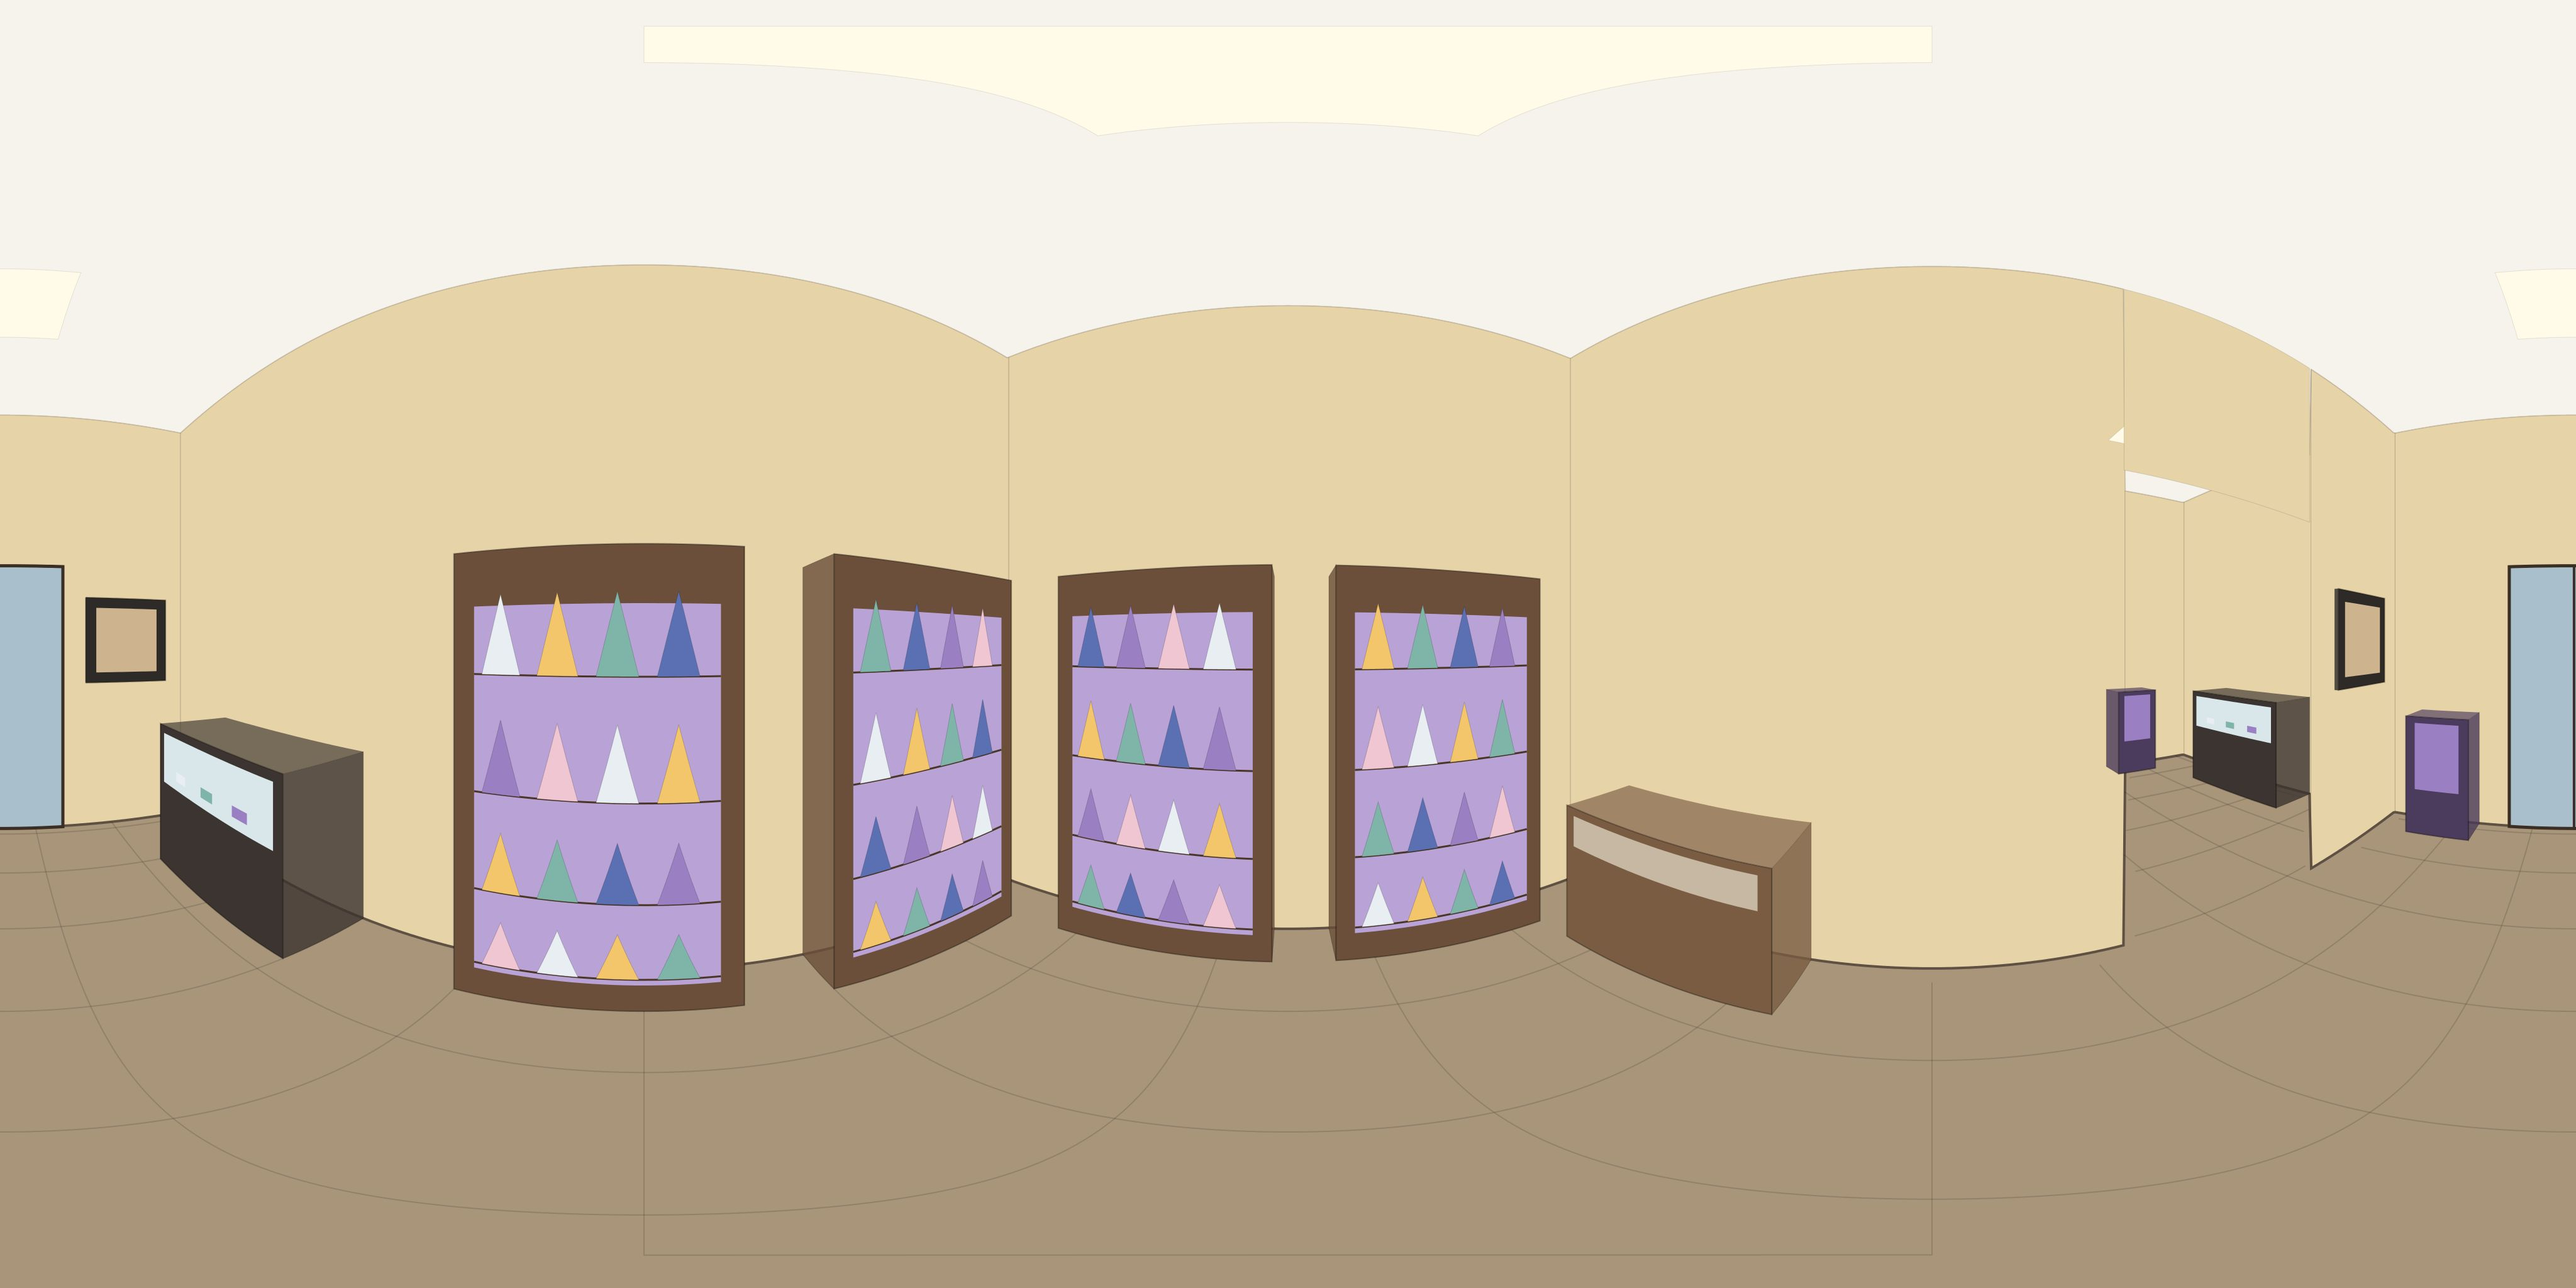
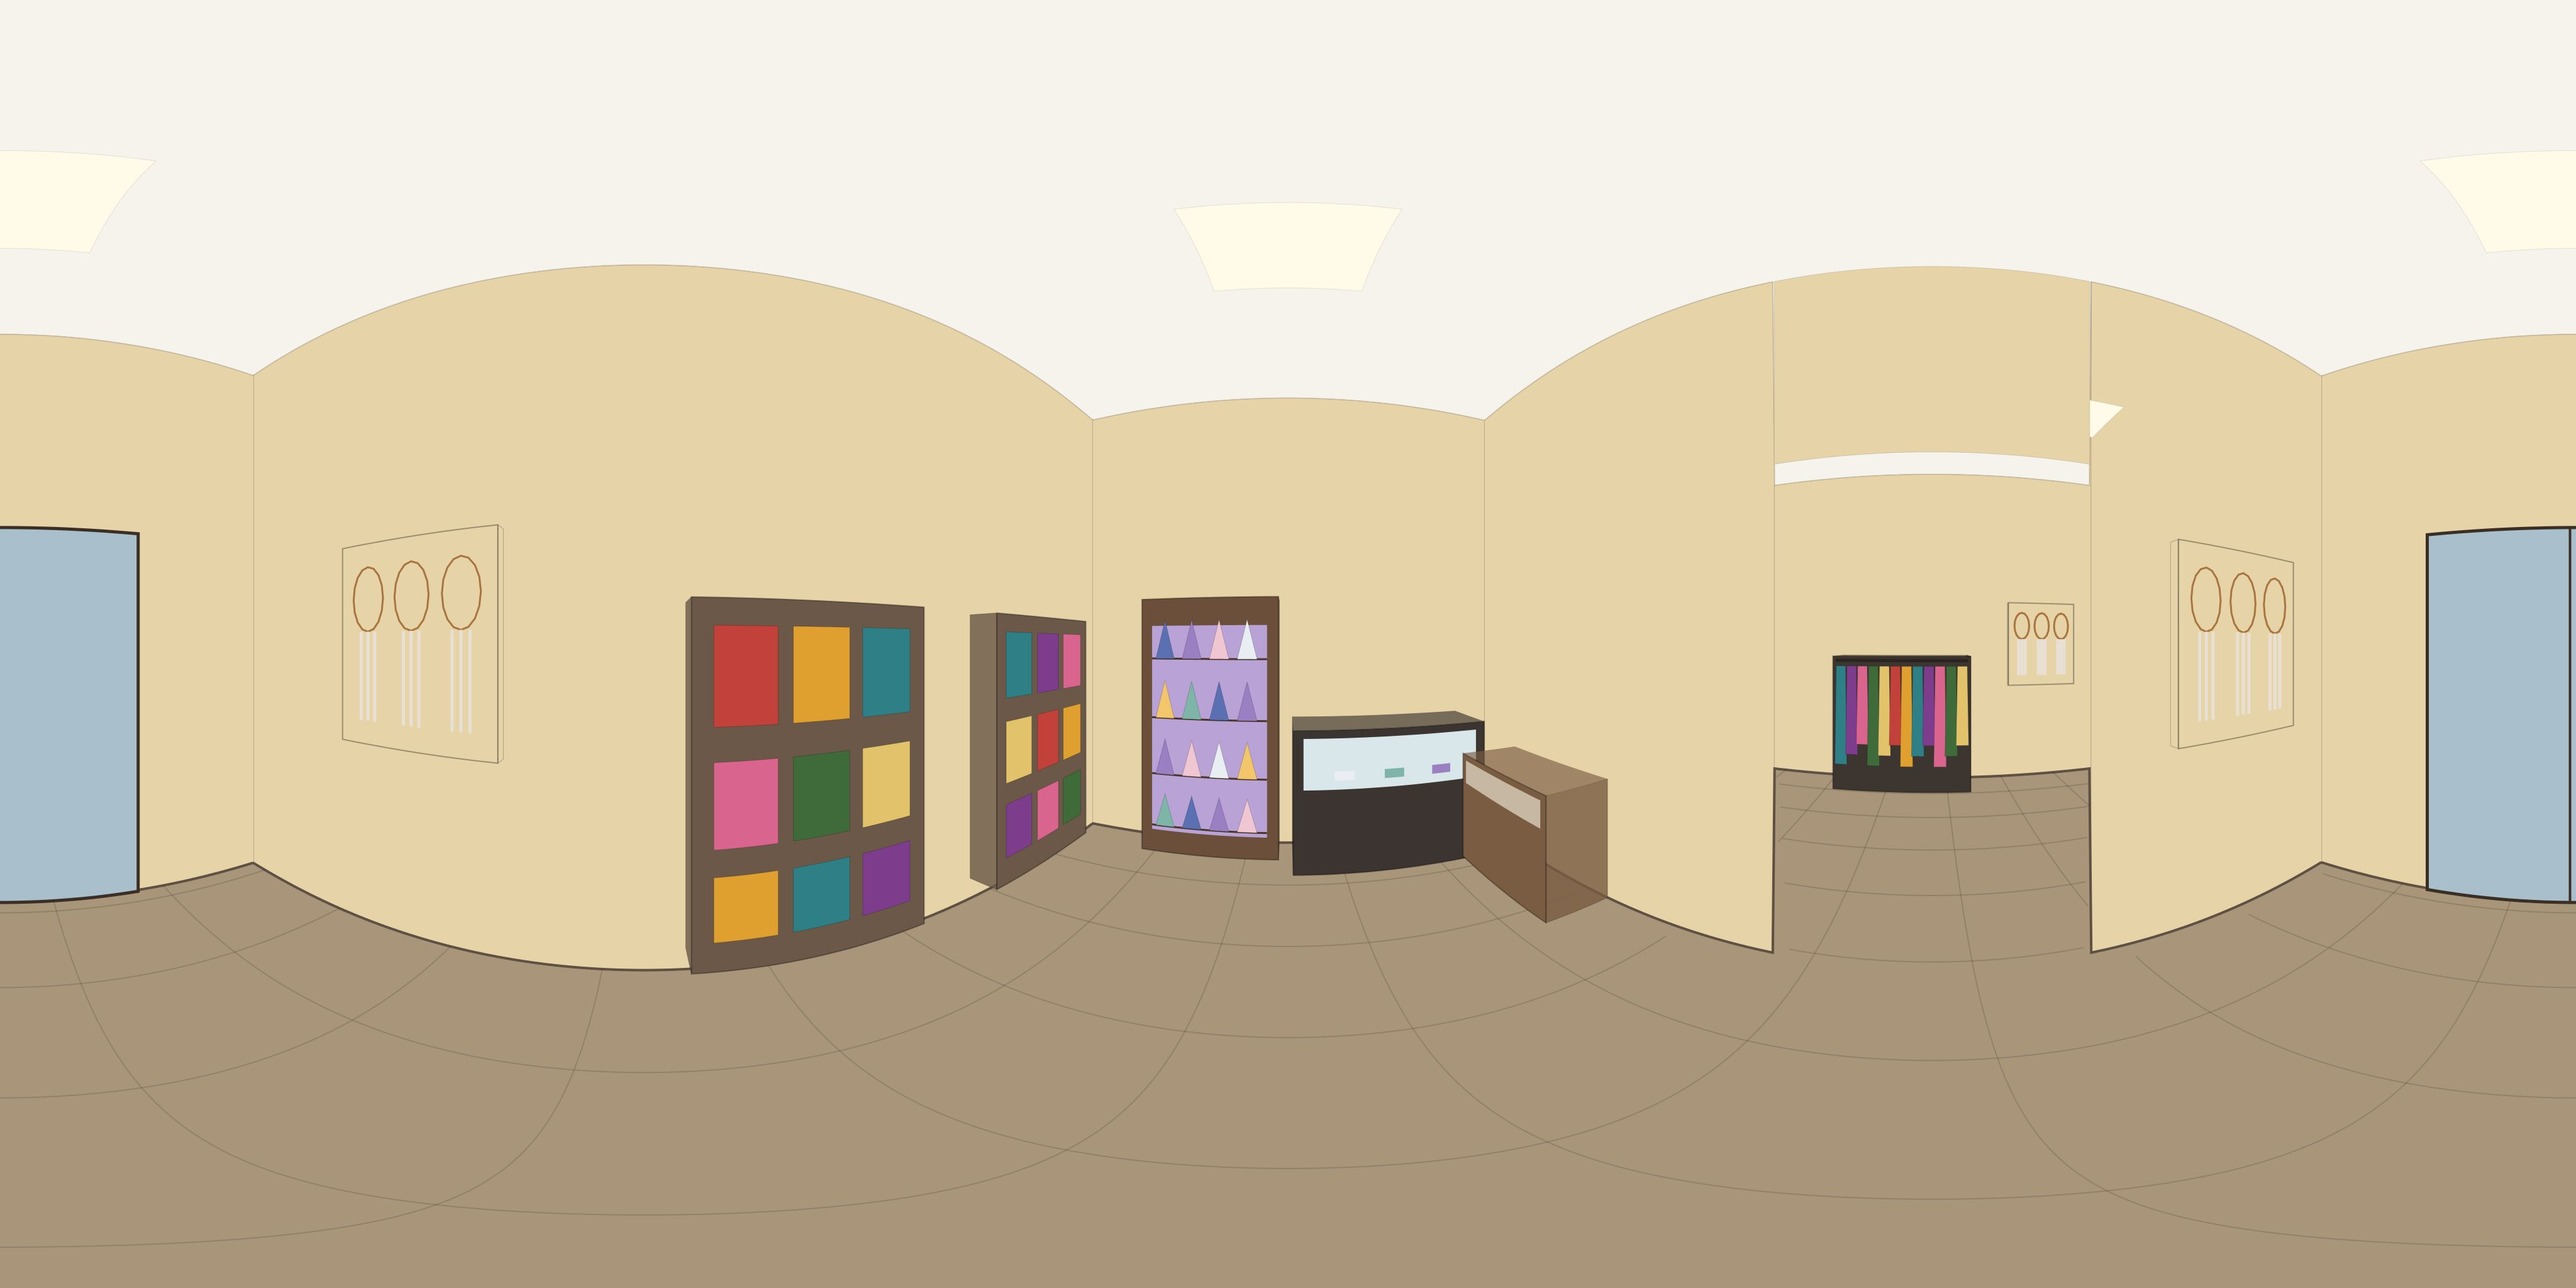
Stone Market: first real 360 photo (shopfront), two street doors, boho products
The first uploaded Insta360 photo, taken on the street outside the shop,
is now the tour's start (Shopfront). It shows each room has its own
arched street door and that the shop sells boho clothing and gifts, so:

- Each room gets its own street door; the plan shows the pavement in
  front of the shop
- Seven pins placed by hand on items in the photo (skirt racks,
  dresses, backpacks, sandals, dreamcatcher, chakra wall hanging); the
  links into each doorway line up with the photo
- Placeholder products re-themed to clothing, bags, hangings, jewellery
  and gifts, with new rack, bags and hanging display types

Generator support: captured stops (a real photo is never overwritten;
pins come from the layout), per-stop heading, multiple front doors,
per-display categories.

Claude-Session: https://claude.ai/code/session_01DoLvroThJUrMSaxn3CUBpM

diff --git a/showroom-tour/README.md b/showroom-tour/README.md
@@ -156,14 +156,17 @@ as `"theme": { "accent": "#1f6b58" }`.
 | Tour | Status |
 | --- | --- |
 | `odowds` | O'Dowds Carrick: 2 floors, 80 × 30 ft, live WooCommerce catalogue + placeholders |
-| `stonemarket` | Stone Market Valletta: two side-by-side 3 × 5 m rooms joined by an archway (`layouts/stonemarket.json`), 17 crystal, gemstone and jewellery placeholders, Stone Market logo top right and Northwest Complete credit bottom right. Until Stone Market has its own shop, checkout and `sync-catalog` point at the O'Dowds WooCommerce site: switch with `node scripts/sync-catalog.mjs --tour stonemarket --woocommerce <stone market site>`. |
+| `stonemarket` | Stone Market Valletta: two side-by-side 3 × 5 m rooms, each with its own street door, joined by an archway (`layouts/stonemarket.json`). Starts at a real 360° shopfront photo (`s-outside`, a captured stop with 7 hand-placed pins); the two rooms are placeholders until photographed. Boho clothing and gift placeholder products. Logo top right, Northwest Complete credit bottom right. Checkout and `sync-catalog` point at the O'Dowds WooCommerce site until Stone Market has its own. |
 
 Branding per tour (`tour.json`): `"branding": { "logo": "brand/logo.png", "logoAlt": "…", "credit": { "logo": "…", "name": "…", "url": "…" } }`
 puts the logo in the top-right corner (in place of the name pill) and a credit badge bottom right.
 
 Layouts can describe two side-by-side rooms with `"partition": { "x", "doorFrom", "doorTo", "doorHeightFt" }` (displays on it use
 `wall: "partition-left"` / `"partition-right"`), and `"labels": false` leaves all painted labels out of panoramas and plans.
-Crystal shop displays: `shelf`, `cabinet`, `geode`, `bins`, `wallart`.
+A stop with `"captured": true` is a real 360 photo: `make-placeholders` never overwrites it, displays are not auto-pinned on it,
+and its pins come from the stop's own `pins` list (each can define a placeholder product with `name`, `price` and `kind`).
+`heading` sets which plan direction the photo's centre faces. Floors can have several front `doors` and an `apronFt`
+strip of street on the plan. Boho shop displays: `rack`, `bags`, `hanging`. Crystal shop displays: `shelf`, `cabinet`, `geode`, `bins`, `wallart`.
 
 Stone displays available in layouts: `slab`, `tile`, `mosaic`, `worktop`, `vanity`, `limestone`, `paving`, `carving`
 (each display can set its own `colour`). Floors can set `wallColour` and `floorColour`.
